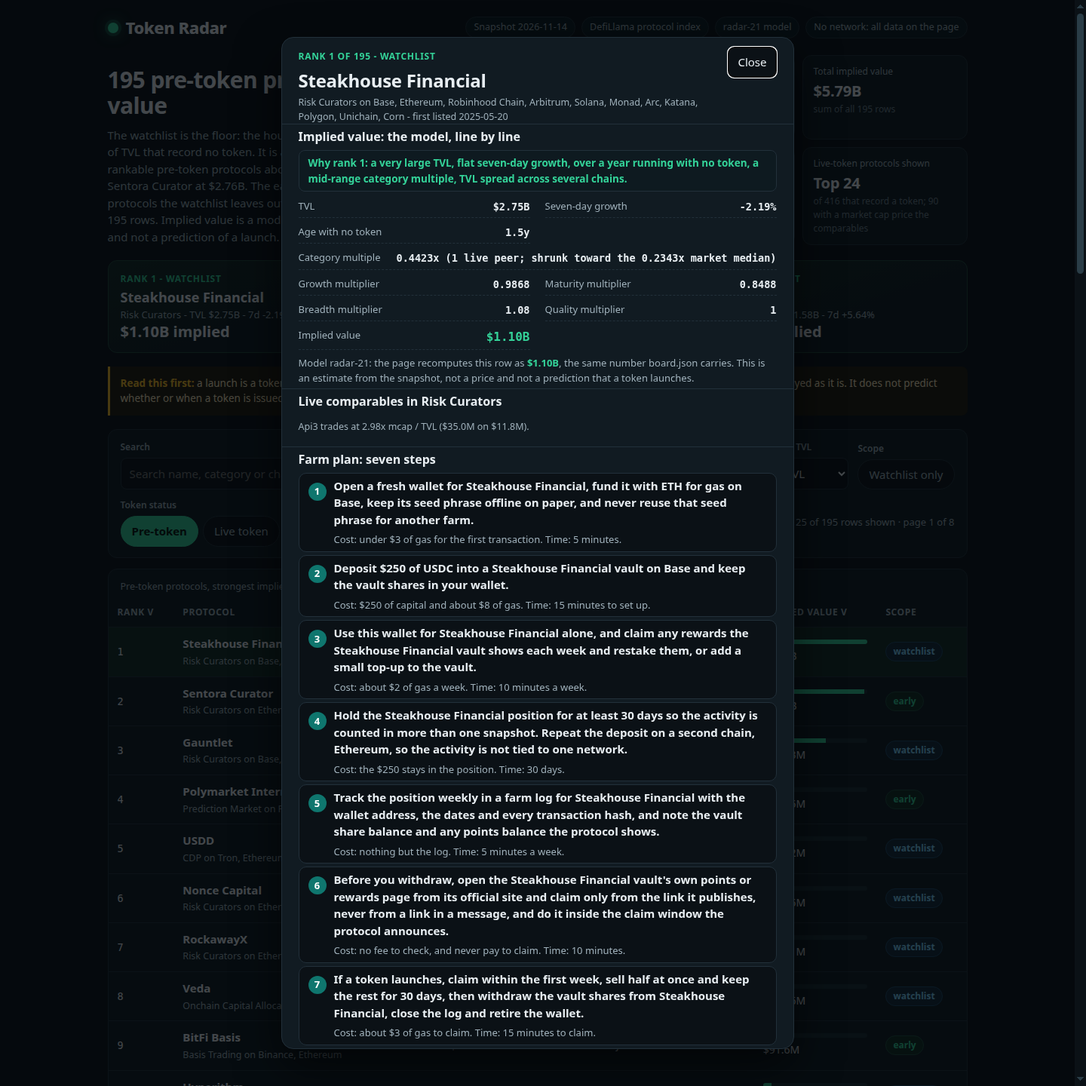
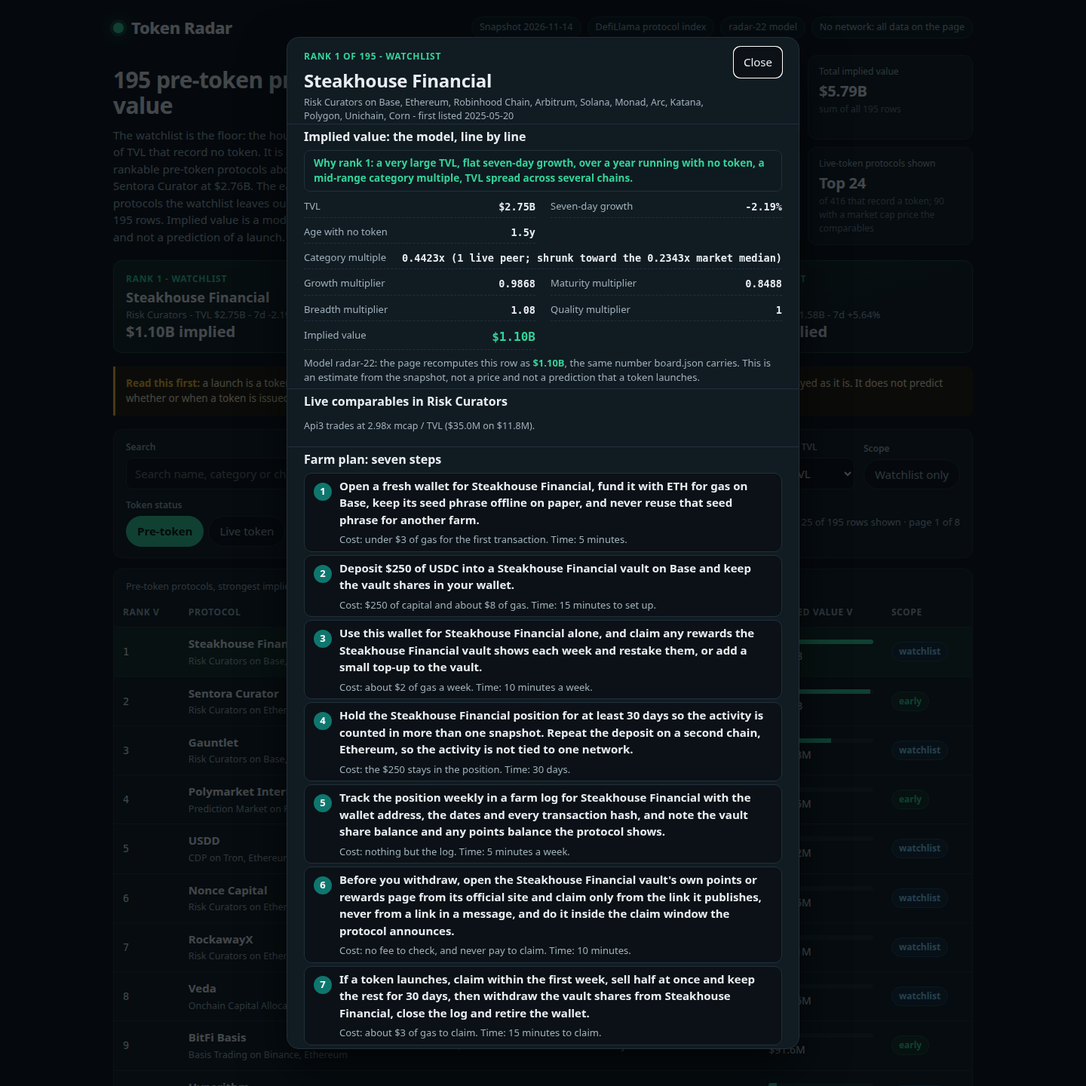
Token Radar radar-22: settle Native Credit Pool and BounceBit Prime, refine Figure Markets Prime, fix a/an article
- Native Credit Pool (rank 130): single-sided supply pool for market
  makers, so the plan supplies USDC (largest asset in the pool, $6.54M
  of $19.03M on 14 Nov 2026) and earns borrow interest instead of
  borrowing against a deposit; no health factor, no borrow to repay.
- BounceBit Prime (rank 96): institutional-only with KYC/AML, so the
  plan starts with qualified-investor onboarding instead of a plain
  retail deposit into the strategy.
- Figure Markets Prime (rank 34): USDC lends into a margin pool, not
  the YLDS HELOC pool (which takes YLDS); radar-21 conflated the two.
- Article: the shapes wrote 'a' before every protocol name, so ten rows
  read 'into a Upshift vault' etc.; now 'an' before vowel-initial names.
- Settled with no fix: Monolith 'ChainSecurity audit, Apr 2026' is right
  (re-audit final version 14 Apr 2026; Electisec/yAudit Jun 2025 is a
  separate earlier audit); Loopscale is not in the snapshot at all.
- 26 of 195 plans corrected. Board unchanged: same 195 rows, ranks and
  implied values (total $5,786,663,094); only farm plans move, on 16 rows.
- Screenshots retaken at 1440x1440 for the radar-22 label.

diff --git a/lib/model.ts b/lib/model.ts
@@ -1,4 +1,4 @@
-// Token Radar's model (radar-21): one sealed snapshot in, one ranked board out.
+// Token Radar's model (radar-22): one sealed snapshot in, one ranked board out.
 //
 // The board covers every slug in the snapshot's watchlist (the floor, never a
 // ceiling) plus every other rankable pre-token protocol the watchlist leaves
@@ -122,7 +122,7 @@ export const MODEL: ModelConstants = {
 };
 
 /** The model's version label: the dashboard names it. */
-export const MODEL_VERSION = 'radar-21';
+export const MODEL_VERSION = 'radar-22';
 
 /** How many live-token protocols the Live token view carries, by market cap. */
 export const LIVE_ROWS = 24;
@@ -505,11 +505,16 @@ function holdDaysFor(age: number | null): number {
   return 30;
 }
 
+/** "a" or "an" before a protocol name: the shapes wrote "a" before every name, so ten rows read "into a Upshift vault", "a Armitage", "a Arrakis" and the like. */
+function articleFor(name: string): string {
+  return /^[AEIOU]/i.test(name) ? 'an' : 'a';
+}
+
 /** The category's one action, in the words a farmer can follow. */
 function actionFor(p: SnapshotProtocol, capital: number, chain: string): string {
   const c = (p.category ?? '').toLowerCase();
   const name = p.name;
-  if (c.includes('collateral market')) return `Deposit $${capital} of wstETH into a ${name} vault on ${chain}, delegate the collateral to an operator securing a network, and keep the vault shares in your wallet.`;
+  if (c.includes('collateral market')) return `Deposit $${capital} of wstETH into ${articleFor(name)} ${name} vault on ${chain}, delegate the collateral to an operator securing a network, and keep the vault shares in your wallet.`;
   if (c.includes('interest rate')) return `Deposit $${capital} of USDC as margin on ${name} on ${chain} and open one small long or short position on a funding-rate market, then hold it to maturity.`;
   if (c.includes('uncollateralized')) return `Deposit $${capital} of USDC into the ${name} credit market on ${chain} to fund uncollateralized loans and keep the yield-bearing receipt token in your wallet.`;
   // A CDP takes the collateral its own vaults accept, never a stablecoin
@@ -531,8 +536,8 @@ function actionFor(p: SnapshotProtocol, capital: number, chain: string): string 
   // "dex" — so Set Protocol's plan told its farmer to LP into a pool
   // instead of buying its index token; the index shape below it was
   // unreachable. The test is now the category itself.
-  if (c.includes('leveraged farm')) return `Deposit $${capital} of USDC into a ${name} leveraged vault on ${chain} and keep the vault receipt token in your wallet.`;
-  if (c.includes('yield') || c.includes('curator') || c.includes('allocator') || c.includes('vault')) return `Deposit $${capital} of USDC into a ${name} vault on ${chain} and keep the vault shares in your wallet.`;
+  if (c.includes('leveraged farm')) return `Deposit $${capital} of USDC into ${articleFor(name)} ${name} leveraged vault on ${chain} and keep the vault receipt token in your wallet.`;
+  if (c.includes('yield') || c.includes('curator') || c.includes('allocator') || c.includes('vault')) return `Deposit $${capital} of USDC into ${articleFor(name)} ${name} vault on ${chain} and keep the vault shares in your wallet.`;
   if (c.includes('perpetual') || c.includes('derivative')) return `Deposit $${capital} of USDC as margin on ${name} on ${chain}, open one small hedged trade, then close it.`;
   if (c.includes('prediction')) return `Fund your ${name} account with $${capital} on ${chain} and place one small market position.`;
   if (c.includes('stable')) return `Mint or deposit $${capital} of the stable asset through ${name} on ${chain} and hold it in your wallet.`;
@@ -543,7 +548,7 @@ function actionFor(p: SnapshotProtocol, capital: number, chain: string): string 
   if (c.includes('rwa')) return `Buy or mint $${capital} of ${name}'s yield-bearing asset on ${chain} and hold it for the full period.`;
   if (c.includes('insurance')) return `Buy $${capital} of cover from ${name} on ${chain} and keep the policy active.`;
   if (c.includes('basis') || c.includes('options')) return `Deposit $${capital} of USDC into ${name}'s strategy on ${chain} and keep the position open.`;
-  if (c.includes('liquidity manager')) return `Deposit $${capital} of USDC into a ${name} managed pool on ${chain} and keep the managed position open.`;
+  if (c.includes('liquidity manager')) return `Deposit $${capital} of USDC into ${articleFor(name)} ${name} managed pool on ${chain} and keep the managed position open.`;
   if (c.includes('liquid')) return `Deposit $${capital} into ${name} on ${chain} and keep the receipt token in your wallet.`;
   if (c === 'chain') return `Move $${capital} of USDC onto ${name} through its official bridge and hold the balance in your wallet on the network.`;
   if (c.includes('staking pool')) {
@@ -1116,19 +1121,60 @@ const PLAN_CORRECTIONS: Record<string, PlanCorrection> = {
     exit: (p) => `If a token launches, claim within the first week, sell half at once and keep the rest for 30 days, then request a withdrawal of the vault shares from ${p.name} (the onycSOL vault processes withdrawals weekly, so allow extra time), close the log and retire the wallet.`,
   },
   // Figure Markets Prime is a lender-side marketplace, not a borrow
-  // market: Democratized Prime lets users lend USDC (or USD, YLDS or
-  // crypto) into pools that fund HELOC-backed loans, while the
-  // Crypto-Backed Loan side posts crypto — BTC, ETH or SOL — as
-  // collateral, never USDC. The lending shape would tell its farmer to
-  // supply USDC as collateral and borrow against it, then repay the
-  // borrow — there is no borrow-against-your-supply on either side.
-  // (Figure Markets: Democratized Prime; SEC Form 497Ad.)
+  // market: Democratized Prime's pools are a YLDS HELOC pool, which
+  // takes YLDS (deposit USD, buy YLDS, lend into the pool), and
+  // USD/USDC/USDT margin pools — so USDC lends into a margin pool,
+  // not the HELOC pool, while the Crypto-Backed Loan side posts
+  // crypto — BTC, ETH or SOL — as collateral, never USDC. The
+  // lending shape would tell its farmer to supply USDC as collateral
+  // and borrow against it, then repay the borrow — there is no
+  // borrow-against-your-supply on either side. Radar-21 corrected
+  // this row to lend USDC into a Democratized Prime pool to fund
+  // HELOC-backed loans; that conflated the two pools, and it is
+  // refined here. (Figure Markets: Democratized Prime; Figure: Prime
+  // lending pools.)
   'figure-markets-prime': {
-    why: 'DefiLlama lists Figure Markets Prime under Lending, so the lending shape would tell its farmer to supply USDC as collateral and borrow against it — but Democratized Prime is a lender-side marketplace: users lend USDC into pools that fund HELOC-backed loans, and the borrow side posts crypto as collateral, never USDC.',
-    action: (p, capital, chain) => `Lend $${capital} of USDC into a Democratized Prime pool on ${p.name} on ${chain} to fund HELOC-backed loans and keep the pool position in your wallet.`,
-    weekly: (p) => `Check the yield the Democratized Prime pool paid that week on ${p.name} and leave it compounding instead of withdrawing it.`,
-    track: (p) => `Track the position weekly in a farm log for ${p.name} with the wallet address, the dates and every transaction hash, and note the pool balance, the yield it paid that week and the loans it funds.`,
-    exit: (p) => `If a token launches, claim within the first week, sell half at once and keep the rest for 30 days, then withdraw the deposit from the Democratized Prime pool on ${p.name}, close the log and retire the wallet.`,
+    why: 'DefiLlama lists Figure Markets Prime under Lending, so the lending shape would tell its farmer to supply USDC as collateral and borrow against it — but Democratized Prime is a lender-side marketplace: its pools are a YLDS HELOC pool, which takes YLDS, and USD/USDC/USDT margin pools, so USDC lends into a margin pool, not the HELOC pool, and the borrow side posts crypto as collateral, never USDC.',
+    action: (p, capital, chain) => `Lend $${capital} of USDC into a Democratized Prime margin pool on ${p.name} on ${chain} and keep the pool position in your wallet.`,
+    weekly: (p) => `Check the yield the Democratized Prime margin pool paid that week on ${p.name} and leave it compounding instead of withdrawing it.`,
+    track: (p) => `Track the position weekly in a farm log for ${p.name} with the wallet address, the dates and every transaction hash, and note the pool balance and the yield it paid that week.`,
+    exit: (p) => `If a token launches, claim within the first week, sell half at once and keep the rest for 30 days, then withdraw the deposit from the Democratized Prime margin pool on ${p.name}, close the log and retire the wallet.`,
+  },
+  // Native Credit Pool is a single-sided supply pool, not a borrow
+  // market: suppliers deposit assets that market makers borrow for
+  // trading, to deepen spot liquidity — nobody posts collateral and
+  // nobody borrows against a deposit, so there is no health factor
+  // to track and no borrow to repay. The supply asset is verifiable
+  // too: USDC is the largest asset in the pool, $6.54M of $19.03M on
+  // 14 November 2026. The lending shape would tell its farmer to
+  // supply USDC as collateral and borrow against it, repay part of
+  // the borrow every week and track the health factor — every step
+  // of that is the wrong side of the pool. (DefiLlama: Native Credit
+  // Pool; DefiLlama API token breakdown, 14 Nov 2026.)
+  'native-credit-pool': {
+    why: 'DefiLlama lists Native Credit Pool under Lending, so the lending shape would tell its farmer to supply USDC as collateral and borrow against it — but Native Credit Pool is a single-sided supply pool: suppliers deposit assets that market makers borrow for trading, nobody posts collateral and nobody borrows against a deposit, and USDC is the largest asset supplied ($6.54M on 14 Nov 2026).',
+    action: (p, capital, chain) => `Supply $${capital} of USDC to the single-sided ${p.name} on ${chain}, where market makers borrow the supplied assets for trading, and keep the pool position in your wallet.`,
+    weekly: (p) => `Check the borrow interest the ${p.name} paid that week and leave it compounding instead of withdrawing it.`,
+    track: (p) => `Track the position weekly in a farm log for ${p.name} with the wallet address, the dates and every transaction hash, and note the supplied balance, the borrow interest it earned that week and the active loans it funds.`,
+    claim: (p) => `Before you withdraw, check ${p.name}'s own site for any rewards announcement and claim only from the link it publishes, never from a link in a message; if it announces no rewards, there is nothing to claim.`,
+    exit: (p) => `If a token launches, claim within the first week, sell half at once and keep the rest for 30 days, then withdraw the supplied USDC from ${p.name}, close the log and retire the wallet.`,
+  },
+  // BounceBit Prime is an institutional product, not a retail vault:
+  // it is built for institutional and accredited investors, with
+  // KYC/AML, custodial management and transparent reporting, and its
+  // flagship BENJI fund is for qualified investors. The basis shape
+  // would tell its farmer to deposit USDC into the strategy and
+  // rebalance it weekly — a retail wallet cannot simply deposit, and
+  // there is nothing to rebalance by hand in a managed strategy. Its
+  // plan starts with KYC and qualified-investor onboarding, and only
+  // then deposits. (BounceBit docs; Blockworks, Jun 2025;
+  // FinanceFeeds, Aug 2025.)
+  'bouncebit-prime': {
+    why: 'DefiLlama lists BounceBit Prime under Basis Trading, so the basis shape would tell its farmer to deposit USDC into its strategy — but BB Prime is an institutional product: it is built for institutional and accredited investors, with KYC/AML, custodial management and transparent reporting, and its flagship BENJI fund is for qualified investors, so a retail wallet cannot simply deposit.',
+    action: (p, capital, chain) => `Complete ${p.name}'s KYC and qualified-investor onboarding first — BB Prime is institutional-only — then deposit $${capital} of USDC into its strategy on ${chain} and keep the position open.`,
+    weekly: (p) => `Check the yield the ${p.name} strategy paid that week and leave it compounding instead of withdrawing it.`,
+    track: (p) => `Track the position weekly in a farm log for ${p.name} with the wallet address, the dates and every transaction hash, and note the strategy balance and the yield it earned that week.`,
+    claim: (p) => `Before you withdraw, check ${p.name}'s own site for any rewards announcement and claim only from the link it publishes, never from a link in a message; if it announces no rewards, there is nothing to claim.`,
   },
 };
 

diff --git a/dashboard/app.js b/dashboard/app.js
@@ -1,4 +1,4 @@
-// Token Radar's dashboard (radar-21). It reads window.RADAR (written beside
+// Token Radar's dashboard (radar-22). It reads window.RADAR (written beside
 // dashboard/ by main.ts from the same board.json) and renders the ranked
 // board, the filters, a per-protocol detail view with the model's own
 // breakdown and the protocol's farm plan, and the live-token set kept apart.
@@ -438,7 +438,7 @@
       el('h2', { text: 'How implied value is computed' }),
       el('p', { class: 'sub', text: 'Every row is scored by one function of the snapshot figures. The scoring never special-cases a protocol name, and no row is hand-picked. The comparable is the median market-cap-to-TVL ratio of the live-token protocols in the same category, computed from this snapshot at run time, then shrunk toward the market median in log space with a weight of ' + m.shrink_peers + ' peers: ratios multiply, so the shrinkage averages logarithms, and the raw median is never clamped before shrinking. A category with one live peer never prices at its peer\'s ratio, and a category with no live peer uses the market median outright.' }),
       el('p', { class: 'sub', text: 'The shrinkage is not a guess at a weight: ' + thin + ' of the ' + thinTotal + ' categories priced here have fewer than three live peers, so most multiples would rest on one or two protocols without it. Shrinking in log space matters because the old arithmetic shrink clamped the raw median first: seven single-peer categories, from Options at 1.51x to Prediction Market at 400.20x, all priced at one identical multiple, and a category whose peers trade at 0.002x was lifted to the market by the floor. Now each prices from its own peer, still pulled most of the way to the market, and still capped. With no shrinkage the Risk Curators rows would all price at the 0.80 cap on a single peer; shrunk, they price at ' + (DATA.multiples['Risk Curators'] === undefined ? 'the market median' : DATA.multiples['Risk Curators'].toFixed(4) + 'x') + '.' }),
-      el('p', { class: 'sub', text: 'Farm plans follow the protocol\u2019s category — except where the snapshot\u2019s own record mislabels the protocol, and then the plan follows the protocol\u2019s own documentation instead. Twenty-four plans are corrected that way, in one table in the code: Hive Protocol is B\u00b2 Hive, a BTC staking pool listed as a chain, so its plan stakes BTC for B2 rewards; Firelight is the underwriting side of a cover design listed as insurance, so its plan stakes FXRP for stXRP; Mezo Earn locks BTC for a veBTC vote, not USDC in a governance vault; Abstract is its own Ethereum L2, not Ethereum mainnet, so its plan runs on Abstract; USDD\u2019s vaults take TRX, USDT or WBTC as collateral, never USDC, and its yield comes from sUSDD; DeFi Saver is a management layer that takes no deposits, so its plan opens a position through it and automates it; Bittensor dTAO is a staking system, not an AMM pool, so its plan stakes TAO for alpha; and Polymarket runs no points program, so its plan checks the rewards page that pays in pUSD instead of a claim page. Thirteen more joined them in the last round: seven CDP plans named USDC as collateral where the vaults take something else — Felix takes HYPE to mint feUSD, Bucket takes SUI to mint BUCK, BIMA and BTCFi take BTC to mint USBD and BtcUSD, Kava Mint takes BTC to mint USDX, Monolith takes ETH to borrow Coin, and Swan DAO takes wstETH to mint swanUSD — and six more shapes named the wrong asset: Avant avETH mints against ETH, not USDC; Origami\u2019s leveraged vaults take the yield-bearing asset itself, USDe; Boros margin is the market\u2019s own asset, ETH; Granite takes sBTC as collateral and lends USDCx; Solv Strategies takes BTC for SolvBTC; and Exponent Yield Exchange is an exchange, not a vault, so its plan swaps a yield-bearing asset for its principal token instead of depositing USDC. Three more join them in this round: the two Exponent rows the last round left alone — Risk Tranching\u2019s first and largest market is ONyc, so its plan deposits ONyc into the senior tranche for srONyc LP shares, and Strategy Vaults\u2019 largest vault is the RockawayX-managed onycSOL vault, so its plan deposits SOL — and Figure Markets Prime, where the lending shape\u2019s borrow-against-your-supply is wrong on either side, so its plan lends USDC into a Democratized Prime pool instead. The eighth CDP row, STRATO, stays on the generic wording because its own litepaper lists USDC as an accepted CDP collateral at 90% LTV. The scoring never names a protocol; these twenty-four are plan corrections, not a hardcoded ranking.' }),
+      el('p', { class: 'sub', text: 'Farm plans follow the protocol\u2019s category — except where the snapshot\u2019s own record mislabels the protocol, and then the plan follows the protocol\u2019s own documentation instead. Twenty-six plans are corrected that way, in one table in the code: Hive Protocol is B\u00b2 Hive, a BTC staking pool listed as a chain, so its plan stakes BTC for B2 rewards; Firelight is the underwriting side of a cover design listed as insurance, so its plan stakes FXRP for stXRP; Mezo Earn locks BTC for a veBTC vote, not USDC in a governance vault; Abstract is its own Ethereum L2, not Ethereum mainnet, so its plan runs on Abstract; USDD\u2019s vaults take TRX, USDT or WBTC as collateral, never USDC, and its yield comes from sUSDD; DeFi Saver is a management layer that takes no deposits, so its plan opens a position through it and automates it; Bittensor dTAO is a staking system, not an AMM pool, so its plan stakes TAO for alpha; and Polymarket runs no points program, so its plan checks the rewards page that pays in pUSD instead of a claim page. Thirteen more joined them in the last round: seven CDP plans named USDC as collateral where the vaults take something else — Felix takes HYPE to mint feUSD, Bucket takes SUI to mint BUCK, BIMA and BTCFi take BTC to mint USBD and BtcUSD, Kava Mint takes BTC to mint USDX, Monolith takes ETH to borrow Coin, and Swan DAO takes wstETH to mint swanUSD — and six more shapes named the wrong asset: Avant avETH mints against ETH, not USDC; Origami\u2019s leveraged vaults take the yield-bearing asset itself, USDe; Boros margin is the market\u2019s own asset, ETH; Granite takes sBTC as collateral and lends USDCx; Solv Strategies takes BTC for SolvBTC; and Exponent Yield Exchange is an exchange, not a vault, so its plan swaps a yield-bearing asset for its principal token instead of depositing USDC. Three more join them in this round: the two Exponent rows the last round left alone — Risk Tranching\u2019s first and largest market is ONyc, so its plan deposits ONyc into the senior tranche for srONyc LP shares, and Strategy Vaults\u2019 largest vault is the RockawayX-managed onycSOL vault, so its plan deposits SOL — and Figure Markets Prime, where the lending shape\u2019s borrow-against-your-supply is wrong on either side, so its plan lends USDC into a Democratized Prime pool instead. Two more join them in this round, and one of those three is refined: Native Credit Pool is a single-sided supply pool for market makers, so its plan supplies USDC and earns the borrow interest instead of borrowing against a deposit; BounceBit Prime is institutional-only with KYC, so its plan starts with qualified-investor onboarding; and Figure Markets Prime\u2019s USDC goes to a margin pool, not the YLDS HELOC pool, which takes YLDS. The eighth CDP row, STRATO, stays on the generic wording because its own litepaper lists USDC as an accepted CDP collateral at 90% LTV. The scoring never names a protocol; these twenty-six are plan corrections, not a hardcoded ranking.' }),
       el('div', { class: 'formula' },
         'multiple = exp((peers x ln(categoryMedian) + ' + m.shrink_peers + ' x ln(marketMedian)) / (peers + ' + m.shrink_peers + ')), clamped to [' + m.multiple_floor + ', ' + m.multiple_cap + ']'
       ),

diff --git a/main.ts b/main.ts
@@ -1,4 +1,4 @@
-// Token Radar (radar-21): the entry program, Node 22, standard library only.
+// Token Radar (radar-22): the entry program, Node 22, standard library only.
 //
 // It reads the sealed snapshot from /input/snapshot.json (or --input
 // <file|dir>), scores every rankable pre-token protocol with the model in

diff --git a/README.md b/README.md
@@ -6,6 +6,45 @@ staked or bridged product of one that trades, ranks them by what their launch
 would be worth, and hands in a web dashboard with the board, a detail view
 for every protocol, filters, and a farm plan for each row.
 
+## The model (radar-22)
+
+Radar-22 keeps radar-21's formula and every implied value, and fixes
+three more farm plans plus one grammar fault the board has carried
+since the start. First, Native Credit Pool (rank 130), the open item
+from round 18, is SETTLED with a fix: DefiLlama calls it a
+single-sided supply pool for market makers to borrow from, so the
+lending shape's supply-as-collateral-and-borrow-against-it is wrong
+in both directions — nobody posts collateral and nobody borrows
+against a deposit — and the supply asset is now verifiable too:
+USDC is the largest asset in the pool, $6.54M of $19.03M on
+14 November 2026, per DefiLlama's own token breakdown, so its plan
+now supplies USDC to the pool and earns the borrow interest market
+makers pay, with no health factor to track and no borrow to repay.
+Second, BounceBit Prime (rank 96), the other open item from round
+18, is SETTLED with a fix: BB Prime is an institutional product for
+institutional and accredited investors, with KYC/AML, custodial
+management and transparent reporting, and its flagship BENJI fund is
+for qualified investors — so the basis shape's plain "deposit $50 of
+USDC into the strategy" sends a retail wallet at a gate it cannot
+pass, and its plan now starts with KYC and qualified-investor
+onboarding. Third, Figure Markets Prime (rank 34), corrected in
+radar-21, is refined: Figure's own Prime page lists a YLDS HELOC
+pool, which takes YLDS (deposit USD, buy YLDS, lend into the pool),
+and USD/USDC/USDT margin pools — so USDC lends into a margin pool,
+not the HELOC pool, and its plan now says so. Fourth, the article:
+ten rows read "into a Upshift vault", "a Armitage", "a Arrakis" and
+the like, because the shapes wrote "a" before every protocol name;
+the shapes now write "an" before a vowel-initial name. Two open
+items are settled with no fix: the Monolith "ChainSecurity audit,
+Apr 2026" attribution is right — ChainSecurity's Monolith re-audit
+has a final version dated 14 April 2026, and the Electisec/yAudit
+review of June 2025 is a separate, earlier audit — and Loopscale is
+not in the snapshot at all, so its fixed-term loans need no plan.
+Twenty-six of 195 plans are now corrected in the one table. The
+board is unchanged: same 195 rows, same ranks, same implied values;
+only farm plans move, on 13 rows (3 corrections plus the article on
+10 rows), and the screenshots are retaken for the radar-22 label.
+
 ## The model (radar-21)
 
 Radar-21 keeps radar-20's formula and every implied value, and fixes three
@@ -449,7 +488,7 @@ rows whose first chain was not a household name name a verified token,
 Tempo names a USD stablecoin because it has no native gas token, and Proton
 says transactions carry no gas fee because it charges none. No row is left
 on the generic wording: BSquared is settled (BTC on the rollup, where the
-farm runs; B2 is gas only on the Hub). Twenty-four plans are corrected against the
+farm runs; B2 is gas only on the Hub). Twenty-six plans are corrected against the
 snapshot's own record, in one table (see Snapshot corrections below): Hive
 Protocol is B² Hive, the network's own BTC staking pool, not a chain, so its
 plan stakes BTC for B2 rewards instead of bridging onto a network; Firelight
@@ -463,7 +502,7 @@ DeFi Saver is a management layer that takes no deposits, so its plan opens a
 position through it and automates it; Bittensor dTAO is a staking system, not
 an AMM pool, so its plan stakes TAO for alpha; and Polymarket runs no points
 program, so its plan checks the rewards page that pays in pUSD instead of a
-claim page. Twenty-four plans in all. The weekly action, the number worth
+claim page. Twenty-six plans in all. The weekly action, the number worth
 logging, the page that would carry a
 claim and the way the position unwinds are all shaped by the category, so a
 lender, a pool and a vault do not farm the same way. Every one of the 32
@@ -481,7 +520,7 @@ them at (flat, and 365 days), never as the oldest or the fastest.
 
 ## Snapshot corrections
 
-Twenty-four farm plans follow the protocol's own documentation instead of the
+Twenty-six farm plans follow the protocol's own documentation instead of the
 snapshot's category, because the snapshot's record mislabels the protocol.
 They live in one table, PLAN_CORRECTIONS in lib/model.ts, keyed by slug,
 each entry stating why the record is wrong and giving only the steps the
@@ -621,10 +660,29 @@ and the scoring never names a protocol.
 - Figure Markets Prime (rank 34): DefiLlama lists it under Lending, and
   the lending shape would tell its farmer to supply USDC as collateral
   and borrow against it — but Democratized Prime is a lender-side
-  marketplace: users lend USDC into pools that fund HELOC-backed loans,
-  and the borrow side posts crypto as collateral, never USDC, so its plan
-  lends USDC into a Democratized Prime pool instead (Figure Markets:
-  Democratized Prime; SEC Form 497Ad).
+  marketplace: its pools are a YLDS HELOC pool, which takes YLDS
+  (deposit USD, buy YLDS, lend into the pool), and USD/USDC/USDT margin
+  pools, so USDC lends into a margin pool, not the HELOC pool, and the
+  borrow side posts crypto as collateral, never USDC, so its plan lends
+  USDC into a Democratized Prime margin pool instead (Figure Markets:
+  Democratized Prime; Figure: Prime lending pools).
+- Native Credit Pool (rank 130): DefiLlama lists it under Lending, and
+  the lending shape would tell its farmer to supply USDC as collateral
+  and borrow against it — but Native Credit Pool is a single-sided
+  supply pool: suppliers deposit assets that market makers borrow for
+  trading, nobody posts collateral and nobody borrows against a deposit,
+  and USDC is the largest asset supplied ($6.54M on 14 Nov 2026), so its
+  plan supplies USDC to the pool and earns the borrow interest market
+  makers pay (DefiLlama: Native Credit Pool; DefiLlama API token
+  breakdown, 14 Nov 2026).
+- BounceBit Prime (rank 96): DefiLlama lists it under Basis Trading,
+  and the basis shape would tell its farmer to deposit USDC into its
+  strategy — but BB Prime is an institutional product for institutional
+  and accredited investors, with KYC/AML, custodial management and
+  transparent reporting, and its flagship BENJI fund is for qualified
+  investors, so a retail wallet cannot simply deposit, and its plan
+  starts with KYC and qualified-investor onboarding (BounceBit docs;
+  Blockworks, Jun 2025; FinanceFeeds, Aug 2025).
 
 ## Run it
 
